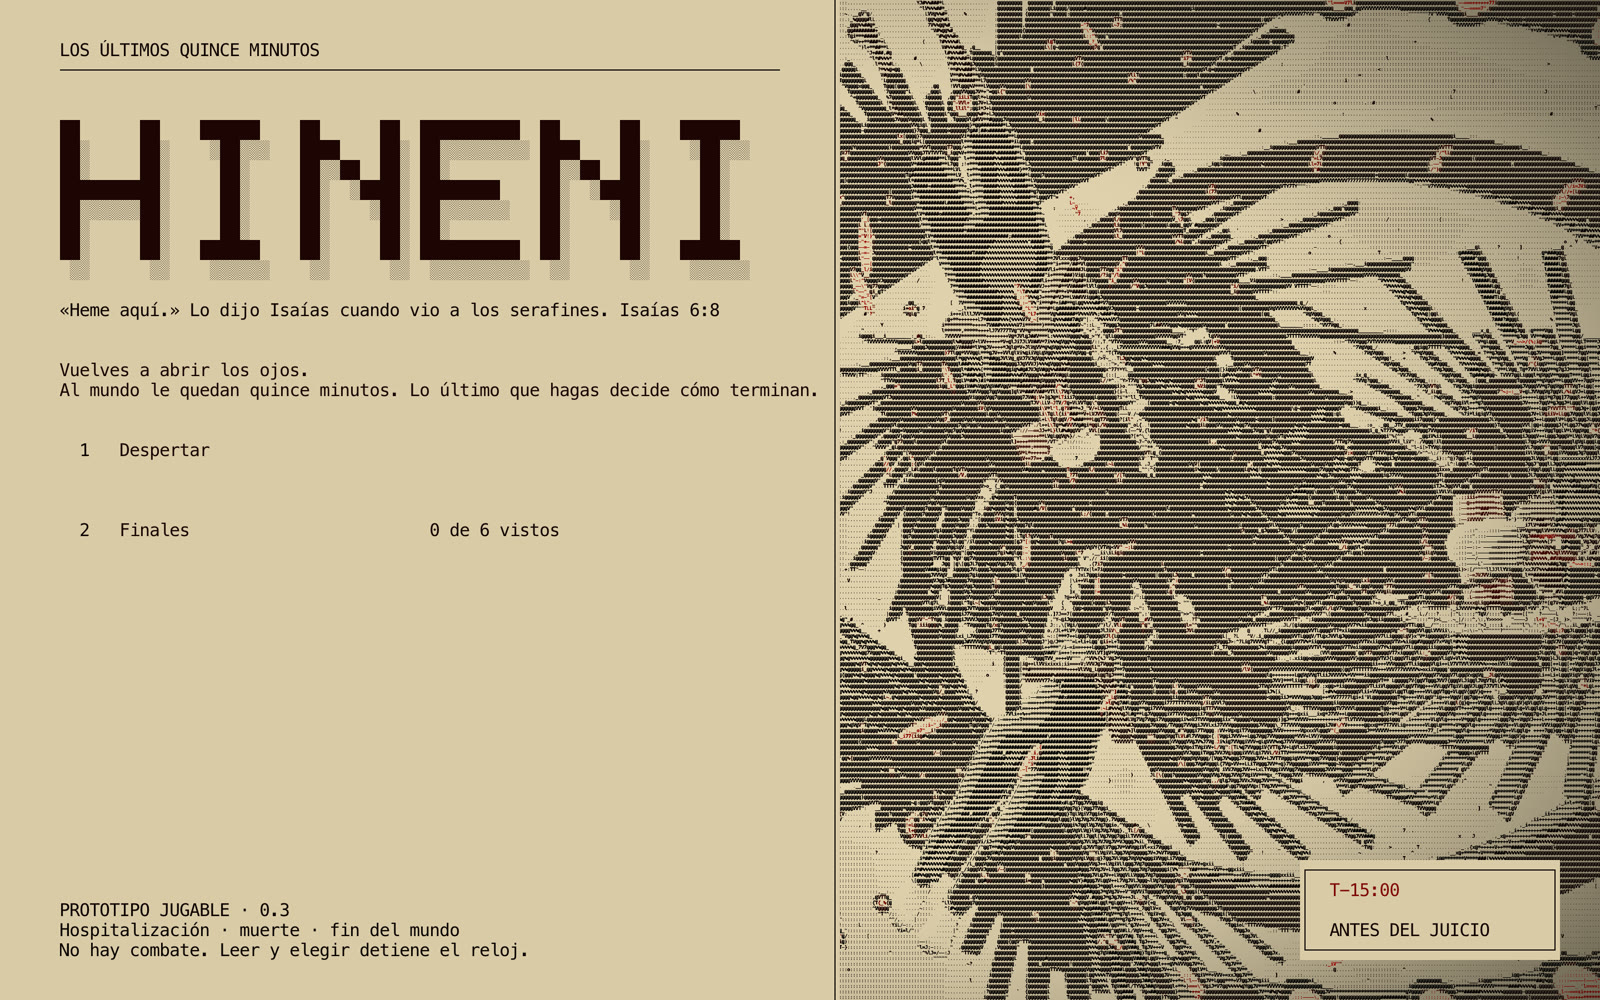
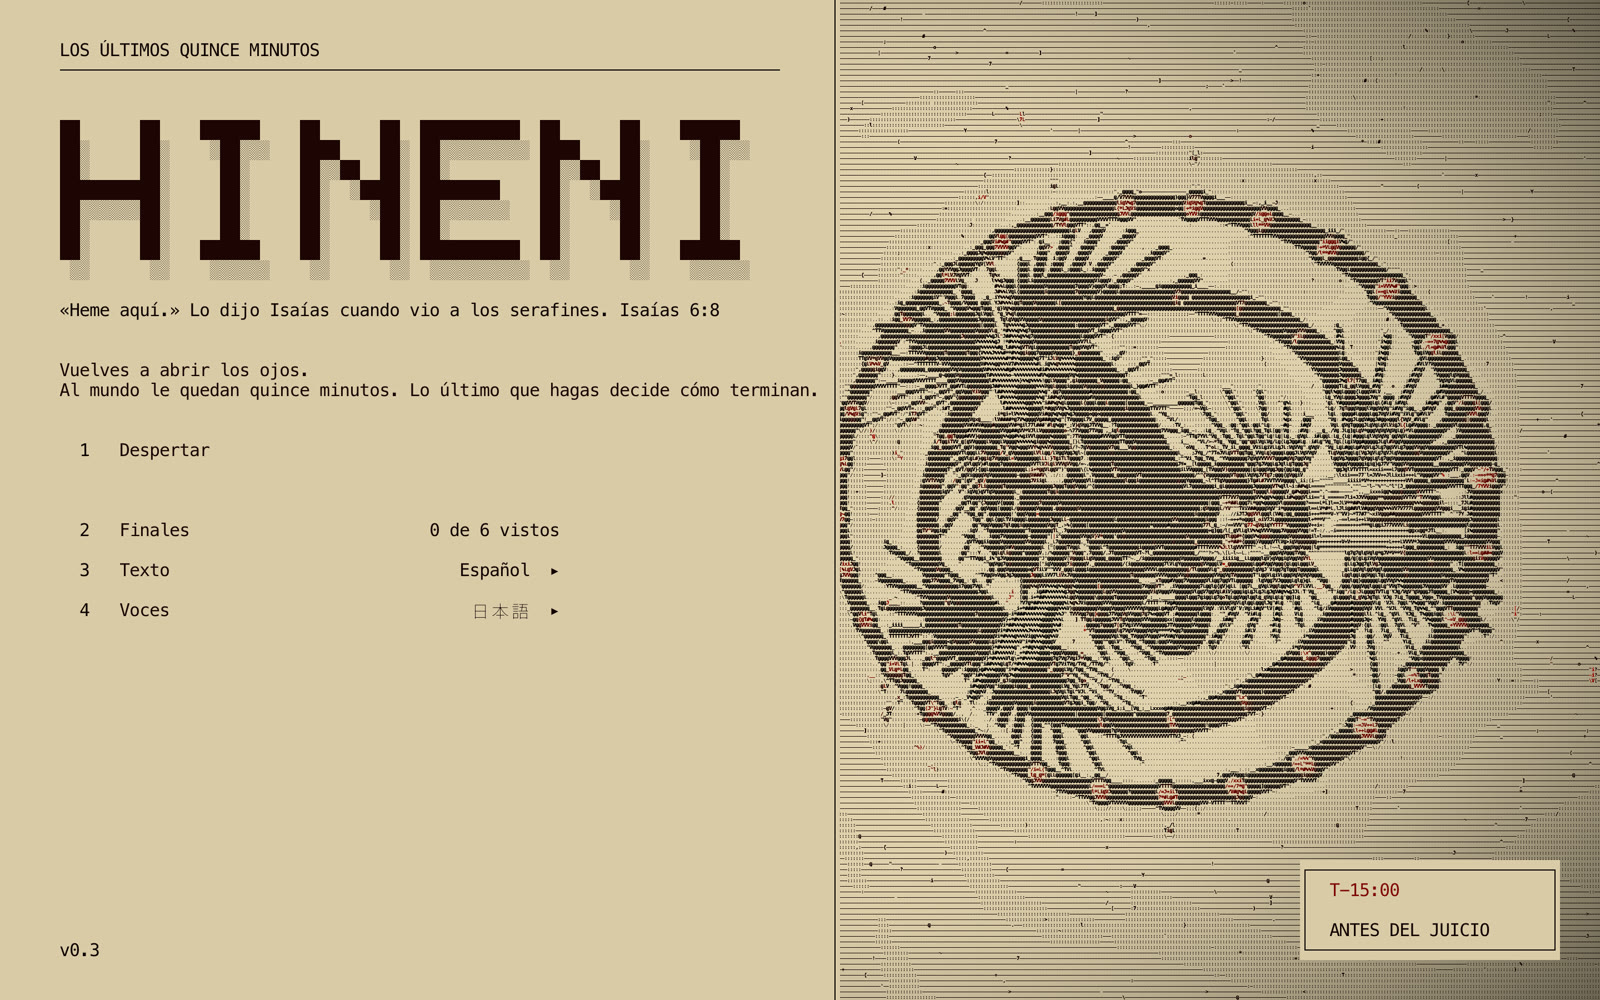
Ángeles: más cerca al mirar al techo, completos en el menú

diff --git a/Assets/Scripts/Heaven.cs b/Assets/Scripts/Heaven.cs
@@ -9,7 +9,7 @@ namespace LosQueQuedan
     // The picture changes with it: dark ink on bone paper, like an engraving.
     public sealed class Heaven : MonoBehaviour
     {
-        const float Recede = 5, UpEnter = .85f, UpLeave = .7f, TearInTime = .35f, TearOutTime = .22f, Height = 15;
+        const float Recede = 1, MenuRecede = 14, UpEnter = .85f, UpLeave = .7f, TearInTime = .35f, TearOutTime = .22f, Height = 15;
         enum Phase { Earth, TearIn, Sky, TearOut }
         Phase phase;
         float clock, gazeUp;
@@ -161,7 +161,8 @@ namespace LosQueQuedan
             if (on)
             {
                 // The sky opens toward wherever you are looking, so they are always in front of you.
-                var c = cam.transform; root.SetPositionAndRotation(c.position + c.forward * Recede, Quaternion.FromToRotation(Vector3.up, c.forward));   // set back so the whole host fits the frame
+                var c = cam.transform; var axis = menu ? Vector3.Slerp(Vector3.up, new Vector3(.47f, .88f, 0).normalized, .2f) : c.forward;   // title: centred in the right half (DemoGame tilts the view to .47, .88)
+                root.SetPositionAndRotation(c.position + axis * (menu ? MenuRecede : Recede), Quaternion.FromToRotation(Vector3.up, axis));   // set back so the whole host fits the frame
                 if (facing)
                 {
                     // A vision: the hospital gone for an instant.
